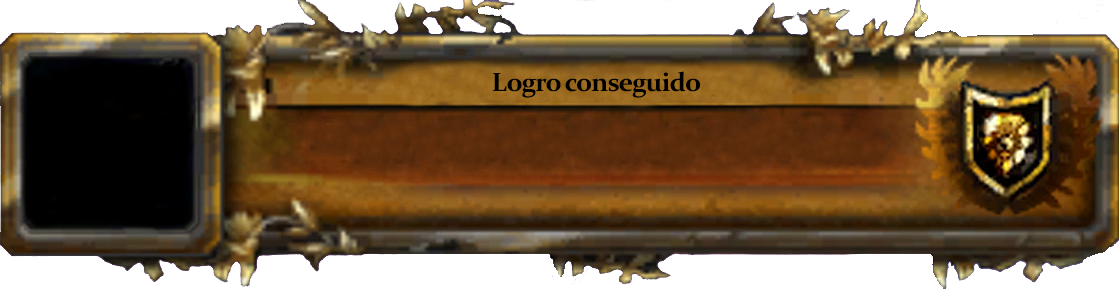
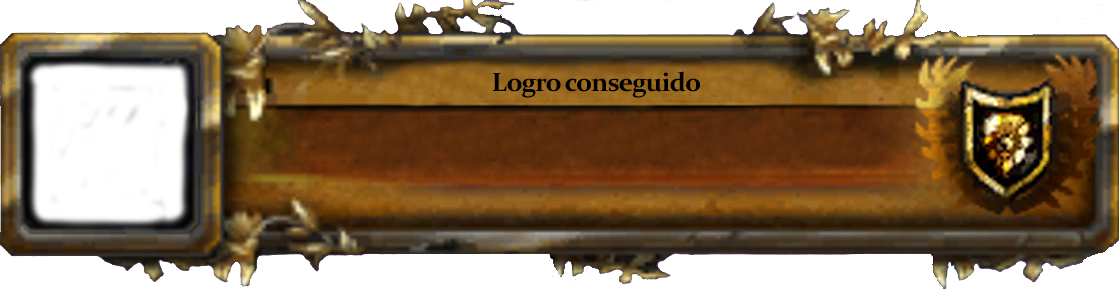
🔧 Fixed Fonts

Changed region(s): [[0.0, 0.1869, 0.1823, 0.8097]]

diff --git a/index.js b/index.js
@@ -15,11 +15,6 @@ const HEIGHT = 290
 const canvas = createCanvas(WIDTH, HEIGHT)
 const context = canvas.getContext('2d')
 
-context.font = 'bold 70pt Menlo'
-context.textAlign = 'center'
-context.textBaseline = 'top'
-context.fillStyle = '#3574d4'
-
 app.get('/', (req, res) => {
   res.send('Hello World');
 })
@@ -43,29 +38,28 @@ app.get('/create-image', async (req, res) => {
       icon_url = item.value;
     }
   })
-  context.fillStyle = '#000'
-  context.font = 'bold 30pt Menlo'
-  context.fillText(`Mythic: N'Zoth killed`, 200, 50)
 
-  loadImage('./assets/achieve-back.png').then(image => {
-    context.drawImage(image, 0, 0, WIDTH, HEIGHT)
-
-    loadImage(icon_url).then(image1 => {
-      context.drawImage(image1, 28, 63, 160, 160)
+  loadImage(icon_url).then(image => {
+    context.drawImage(image, 25, 58, 175, 175)
+    
+    loadImage('./assets/achieve-back.png').then(image1 => {
+      context.drawImage(image1, 0, 0, WIDTH, HEIGHT)
       
+      context.textAlign = 'center'
+      context.textBaseline = 'top'
       context.fillStyle = '#fff'
-      context.font = '30pt Cambria Math'
+      context.font = '30pt Arial'
       context.shadowColor="black";
       context.shadowBlur=2;
       context.lineWidth=2;
       context.shadowOffsetX = 3;
       context.shadowOffsetY = 3;
-      context.fillText(`${text}`, WIDTH/2+30, 30)
+      context.fillText(`${text}`, WIDTH/2+30, 120)
 
-      context.font = '15pt Cambria Math'
+      context.font = '15pt Arial'
       context.shadowColor = 'transparent';
       context.fillStyle = '#222'
-      context.fillText(`${date}`, WIDTH/2+30, 148)
+      context.fillText(`${date}`, WIDTH/2+30, 192)
       
       const buffer = canvas.toBuffer('image/png');
       res.write(buffer);
@@ -74,6 +68,6 @@ app.get('/create-image', async (req, res) => {
   })
 })
 
-app.listen(process.env.PORT, () => {
+app.listen(process.env.PORT || 3000, () => {
   console.log(`App started`)
 })
